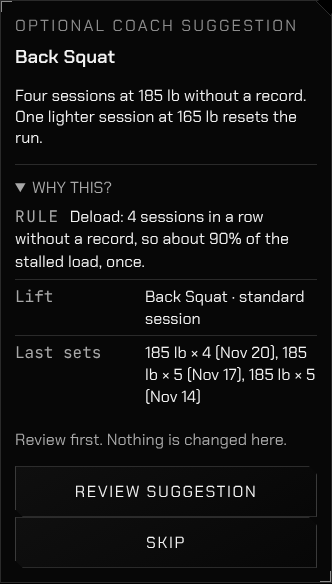
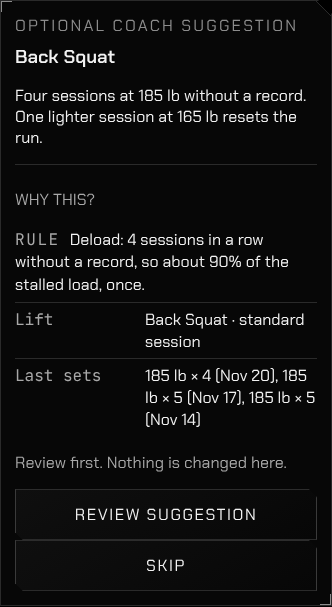
#638 review: true advisory rules, 44 px WHY THIS?, exact branch-rule table; MetricPage002 waits for TODAY (CI)
Claude-Session: https://claude.ai/code/session_01UR9w2nuSV6oWAKV5Wc8D8r

diff --git a/tests/browser/MetricPage002.test.tsx b/tests/browser/MetricPage002.test.tsx
@@ -6,6 +6,7 @@ import "../../src/ui/styles/fonts";
 import { App } from "../../src/app/App";
 import { db } from "../../src/persistence/db";
 import { seedLivedMonth, MONTH_FIRST_DAY, MONTH_NOW } from "./helpers/livedMonth";
+import { todaySettled } from "./helpers/todaySettled";
 import { logProtein } from "../../src/application/commands";
 import { getEffectiveProteinTargetG } from "../../src/application/nutritionTargetQueries";
 import { abandonWorkout, completeWorkout, startWorkout } from "../../src/application/trainCommands";
@@ -33,7 +34,7 @@ describe("METRIC-PAGE-002 slice 1: weight", () => {
   it("TODAY's WEIGHT opens WEIGHT: your weigh-ins, the latest one, BODY's weight trend, dots with honest gaps, and its records one tap away", async () => {
     await seedLivedMonth();
     await page.viewport(360, 800);
-    const screen = await render(<App />);
+    const screen = await render(<App />); await todaySettled(); // #624 rule (CI flake on #638: tapped WEIGHT before TODAY settled)
     await screen.getByRole("button", { name: /^Weight 205\.2 lb/ }).click();
     await expect.element(sheet()).toBeVisible();
     await expect.poll(() => text("[data-md-hero]")).toContain("205.2");
@@ -78,7 +79,7 @@ describe("METRIC-PAGE-002 slice 1: weight", () => {
   it("WEIGHT's LOG WEIGHT opens the existing weight sheet", async () => {
     await seedLivedMonth();
     await page.viewport(360, 800);
-    const screen = await render(<App />);
+    const screen = await render(<App />); await todaySettled(); // #624 rule (CI flake on #638: tapped WEIGHT before TODAY settled)
     await screen.getByRole("button", { name: /^Weight 205\.2 lb/ }).click();
     await sheet().getByRole("button", { name: "LOG WEIGHT", exact: true }).click();
     await expect.poll(() => window.history.state?.recordSheet).toBe("weight");
@@ -87,7 +88,7 @@ describe("METRIC-PAGE-002 slice 1: weight", () => {
   it("BODY's WEIGHT opens the same page, and its records go to BODY's weight history", async () => {
     await seedLivedMonth();
     await page.viewport(360, 800);
-    const screen = await render(<App />);
+    const screen = await render(<App />); await todaySettled(); // #624 rule (CI flake on #638: tapped WEIGHT before TODAY settled)
     await screen.getByRole("navigation").getByRole("button", { name: "DATA", exact: true }).click();
     await screen.getByRole("button", { name: "Open weight", exact: true }).click();
     await expect.element(sheet()).toBeVisible();
@@ -100,7 +101,7 @@ describe("METRIC-PAGE-002 slice 1: weight", () => {
     await seedLivedMonth();
     await db.events.where("type").equals("BODYWEIGHT_LOGGED").delete();
     await page.viewport(360, 800);
-    const screen = await render(<App />);
+    const screen = await render(<App />); await todaySettled(); // #624 rule (CI flake on #638: tapped WEIGHT before TODAY settled)
     await screen.getByRole("button", { name: /^Weight not logged/ }).click();
     await expect.poll(() => text("[data-md-hero]")).toBe("— no weigh-ins recorded yet");
     expect(document.querySelector("dialog[open] .weight-trend")).toBeNull();
@@ -112,7 +113,7 @@ describe("METRIC-PAGE-002 slice 1: weight", () => {
   it("nothing spills, sentences keep 16 px, and WEIGHT passes axe from 320 to 1024 px", async () => {
     await seedLivedMonth();
     await page.viewport(360, 900);
-    const screen = await render(<App />);
+    const screen = await render(<App />); await todaySettled(); // #624 rule (CI flake on #638: tapped WEIGHT before TODAY settled)
     await screen.getByRole("button", { name: /^Weight 205\.2 lb/ }).click();
     await expect.poll(() => text("[data-md-hero]")).not.toBe("");
     for (const r of ["Latest weigh-in", "Last 30 lived days", "Last year, by week"]) {
@@ -155,7 +156,7 @@ describe("METRIC-PAGE-002 slice 2: protein", () => {
     await seedLivedMonth(); await seedPastProtein();
     const target = await getEffectiveProteinTargetG();
     await page.viewport(360, 800);
-    const screen = await render(<App />);
+    const screen = await render(<App />); await todaySettled(); // #624 rule (CI flake on #638: tapped WEIGHT before TODAY settled)
     await screen.getByRole("button", { name: /^Protein 48 .*explore records$/ }).click();
     await expect.element(sheet("PROTEIN")).toBeVisible();
     await expect.poll(() => text("[data-md-hero]")).toBe("48 g so far · since 16:30");
@@ -191,7 +192,7 @@ describe("METRIC-PAGE-002 slice 2: protein", () => {
   it("PROTEIN's LOG PROTEIN opens the existing protein sheet", async () => {
     await seedLivedMonth();
     await page.viewport(360, 800);
-    const screen = await render(<App />);
+    const screen = await render(<App />); await todaySettled(); // #624 rule (CI flake on #638: tapped WEIGHT before TODAY settled)
     await screen.getByRole("button", { name: /^Protein 48 .*explore records$/ }).click();
     await sheet("PROTEIN").getByRole("button", { name: "LOG PROTEIN", exact: true }).click();
     await expect.poll(() => window.history.state?.recordSheet).toBe("protein");
@@ -200,7 +201,7 @@ describe("METRIC-PAGE-002 slice 2: protein", () => {
   it("nothing spills, sentences keep 16 px, and PROTEIN passes axe from 320 to 1024 px", async () => {
     await seedLivedMonth(); await seedPastProtein();
     await page.viewport(360, 900);
-    const screen = await render(<App />);
+    const screen = await render(<App />); await todaySettled(); // #624 rule (CI flake on #638: tapped WEIGHT before TODAY settled)
     await screen.getByRole("button", { name: /^Protein 48 .*explore records$/ }).click();
     await expect.poll(() => text("[data-md-hero]")).not.toBe("");
     for (const r of ["Today, this lived day", "Last 7 lived days", "Last 30 lived days", "Last year, by week"]) {
@@ -242,7 +243,7 @@ async function seedWorkouts() {
   vi.setSystemTime(MONTH_NOW);
 }
 const openWorkouts = async () => {
-  const screen = await render(<App />);
+  const screen = await render(<App />); await todaySettled(); // #624 rule (CI flake on #638: tapped WEIGHT before TODAY settled)
   await screen.getByRole("navigation").getByRole("button", { name: "DATA", exact: true }).click();
   // DATA's progress (where BODY already shows finished workouts over time) opens from DATA's Weight shortcut.
   await screen.getByRole("navigation", { name: "DATA shortcuts", exact: true }).getByRole("button", { name: "Weight", exact: true }).click();

diff --git a/tests/whyTrace.test.ts b/tests/whyTrace.test.ts
@@ -1,6 +1,9 @@
 import { describe, expect, it } from "vitest";
 import { deltaLine, deltaRead, deriveOrientation, type OrientationInput } from "../src/application/orientation";
 import { ADVISORY_RULE } from "../src/ui/screens/today/advisoryCopy";
+import { TRAIN_RULE } from "../src/application/coachCards";
+import { DELOAD_FRACTION, RE_ENTRY_DAYS, RE_ENTRY_FRACTION } from "../src/engine/progression";
+import { STALL_SESSIONS } from "../src/engine/stall";
 import type { AdvisorySourceModule } from "../src/domain/intelligence/types";
 
 /**
@@ -72,5 +75,48 @@ describe("C6.4 · every advisory producer has a rule", () => {
   it("covers every source module", () => {
     const modules: AdvisorySourceModule[] = ["obligationRelevance", "progression", "decisionJournal", "shiftProtection", "continuity", "patternProposal", "dayRolloverAmbiguity"];
     for (const m of modules) expect(ADVISORY_RULE[m], m).toMatch(/\w{4,}/);
+    // #638 review: wording checked against each producer (engine/advisory.ts); pinned so it can't drift silently.
+    expect(ADVISORY_RULE.shiftProtection).toBe("Shift protection: water or protein still short of the Minimum Day amount before a shift.");
+    expect(ADVISORY_RULE.obligationRelevance).toBe("Your commitments: one that is overdue, due today or soon, or planned for today.");
+    expect(ADVISORY_RULE.continuity).toBe("Continuity: last time's recommendation, brought back because it still applies today.");
+  });
+});
+
+describe("C6.4 · each branch names its own rule (#638 review: a mis-paired rule must fail)", () => {
+  type In = Parameters<typeof deltaRead>[0];
+  const KNOWN_UNDER = { state: "KNOWN", minutes: 400, source: "GARMIN", band: { low: 415, high: 470, kind: "WORK" }, under: true } as const;
+  const KNOWN_IN = { ...KNOWN_UNDER, minutes: 450, under: false } as const;
+  const DONE = { state: "DONE", energy: 3, stress: 2, mood: 4 } as const;
+  const engine = (kind: string) => ({ source: "ENGINE" as const, kind: kind as never, title: kind, rationale: "", opensTrain: false });
+  const draft = (kind: string) => ({ source: "DRAFT" as const, kind: kind as never, title: kind, rationale: "", opensTrain: false });
+  const base: In = { sleep: KNOWN_IN, checkIn: { state: "NONE" }, recommendation: null, shortNights: 0, run: null, purpose: "WORK" };
+  const table: [string, Partial<In>, string][] = [
+    ["minimum day", { minimumDay: true }, "Minimum Day is on, so Delta keeps to the essentials."],
+    ["execute, 2 short nights", { checkIn: DONE, recommendation: engine("EXECUTE_PLANNED_WORK"), shortNights: 2 }, "The Engine says do the planned work; two or more short nights in a row, so Delta says so."],
+    ["execute", { checkIn: DONE, recommendation: engine("EXECUTE_PLANNED_WORK") }, "The Engine says do the planned work, after your check-in."],
+    ["no action", { checkIn: DONE, recommendation: engine("NO_ACTION_REQUIRED") }, "The Engine asks for nothing more after your check-in; a short night, if there was one, is still named."],
+    ["stabilize", { checkIn: DONE, recommendation: engine("STABILIZE") }, "The Engine says stabilize after your check-in; a hard day, so plain words."],
+    ["engine recover", { checkIn: DONE, recommendation: engine("RECOVER") }, "The Engine’s recover recommendation, after your check-in."],
+    ["engine post-shift", { checkIn: DONE, recommendation: engine("POST_SHIFT_TRANSITION") }, "The Engine’s post-shift recommendation, after your check-in."],
+    ["engine obligation", { checkIn: DONE, recommendation: engine("OBLIGATION_DUE") }, "The Engine’s obligation-due recommendation, after your check-in."],
+    ["sleep error", { sleep: { state: "ERROR" } }, "Sleep couldn’t be read, so Delta says nothing about rest."],
+    ["no sleep", { sleep: { state: "NONE" } }, "No main sleep is recorded, so Delta doesn’t read your rest."],
+    ["draft recover", { recommendation: draft("RECOVER") }, "A recover draft from your recent nights, before your check-in; the Engine decides after it."],
+    ["draft post-shift", { recommendation: draft("POST_SHIFT_TRANSITION") }, "A post-shift draft, before your check-in; the Engine decides after it."],
+    ["recovery day", { purpose: "RECOVERY" }, "The first day after a run of shifts: a recovery day."],
+    ["day off", { purpose: "OFF" }, "A day off: Delta names what is due."],
+    ["flip day", { purpose: "FLIP" }, "A flip day between nights and days."],
+    ["range not learned", { sleep: { ...KNOWN_IN, band: null } }, "Your usual sleep range isn’t learned yet, so there’s no comparison."],
+    ["under range", { sleep: KNOWN_UNDER }, "Last sleep was under your usual range for this kind of day."],
+    ["in range", {}, "Last sleep was within your usual range for this kind of day."],
+  ];
+  for (const [name, over, rule] of table) it(name, () => expect(deltaRead({ ...base, ...over })!.rule).toBe(rule));
+});
+
+describe("C6.4 · coach-card TRAIN rules are the engine's own numbers", () => {
+  it("re-entry, deload and reduce", () => {
+    expect(TRAIN_RULE.RE_ENTRY).toBe(`Re-entry: ${RE_ENTRY_DAYS} or more days since this lift, so about ${Math.round(RE_ENTRY_FRACTION * 100)}% of the last load.`);
+    expect(TRAIN_RULE.DELOAD).toBe(`Deload: ${STALL_SESSIONS} sessions in a row without a record, so about ${Math.round(DELOAD_FRACTION * 100)}% of the stalled load, once.`);
+    expect(TRAIN_RULE.REDUCE).toMatch(/every required set came in under the rep range/);
   });
 });

diff --git a/src/application/coachCards.ts b/src/application/coachCards.ts
@@ -18,7 +18,7 @@ export type CoachDestination = "TRAIN" | "JOURNAL" | "WEEKLY" | "DELTA";
 export interface CoachCard { id: string; key: string; title: string; evidence: string; destination: CoachDestination; why: WhyTrace }
 const pct = (x: number) => `${Math.round(x * 100)}%`;
 const shortDate = (iso: string | Date) => new Date(iso).toLocaleDateString("en-US", { month: "short", day: "numeric" });
-const TRAIN_RULE: Record<string, string> = {
+export const TRAIN_RULE: Record<string, string> = {
   REDUCE: "Progression (locked): every required set came in under the rep range, so the next increment down.",
   RE_ENTRY: `Re-entry: ${RE_ENTRY_DAYS} or more days since this lift, so about ${pct(RE_ENTRY_FRACTION)} of the last load.`,
   DELOAD: `Deload: ${STALL_SESSIONS} sessions in a row without a record, so about ${pct(DELOAD_FRACTION)} of the stalled load, once.`,
@@ -52,13 +52,13 @@ export async function getCoachCards(now = new Date(), suggestedVariant: "STANDAR
   const experiments = await getExperiments();
   for (const experiment of experiments.filter((e) => e.entry.status === "OPEN" && now >= e.to).sort((a, b) => a.to.getTime() - b.to.getTime() || a.entry.id.localeCompare(b.entry.id))) {
     cards.push({ id: `JOURNAL:${experiment.entry.id}`, key: key("JOURNAL", experiment.entry), title: `Review your test: ${experiment.what}`, evidence: `Your ${experiment.days}-day test ended ${experiment.to.toLocaleDateString()}. Review the recorded results and choose your verdict in Journal.`, destination: "JOURNAL",
-      why: { rule: "A test you started has reached its end date; only you give the verdict.", facts: [{ label: "Test", value: experiment.what }, { label: "Ran", value: `${shortDate(experiment.from)} – ${shortDate(experiment.to)} (${experiment.days} days)` }] } });
+      why: { rule: "A test you started has reached its end date; only you give the verdict.", facts: [{ label: "Test", value: experiment.what }, { label: "Ran", value: `${shortDate(experiment.from)} – ${shortDate(new Date(experiment.to.getTime() - 86_400_000))} (${experiment.days} days)` }] } });
   }
   const weekly = await getWeeklySummary(now);
   if (weekly.calorieProposal.kind === "PROPOSAL") {
     const p = weekly.calorieProposal;
     cards.push({ id: "WEEKLY:calories", key: key("WEEKLY", p), title: `Review ${p.kcal} kcal a day`, evidence: `Your existing weekly proposal uses a burn estimate of ${p.maintenance.lowKcal}–${p.maintenance.highKcal} kcal and your goal of ${p.goalWeightLbs} lb. Review its evidence and limits before saving.`, destination: "WEEKLY",
-      why: { rule: "Weekly calorie proposal: your burn estimate and your goal weight, saved only if you choose.", facts: [{ label: "Proposal", value: `${p.kcal} kcal a day` }, { label: "Burn estimate", value: `${p.maintenance.lowKcal}–${p.maintenance.highKcal} kcal` }, { label: "Goal", value: `${p.goalWeightLbs} lb` }] } });
+      why: { rule: "Weekly calorie proposal: your burn estimate and your goal weight, saved only if you choose.", facts: [{ label: "Proposal", value: `${p.kcal} kcal a day` }, ...(p.kcal !== p.aimKcal ? [{ label: "Aim", value: `${p.aimKcal} kcal a day; this week's step is capped` }] : []), { label: "Burn estimate", value: `${p.maintenance.lowKcal}–${p.maintenance.highKcal} kcal` }, ...(p.weight ? [{ label: "Weight", value: `${p.weight.lbs} lb (${p.weight.basis === "WEEK_AVERAGE" ? "week average" : "latest"})` }] : []), { label: "Goal", value: `${p.goalWeightLbs} lb` }] } });
   }
   const delta = await getDeltaKnowledge(now);
   if (delta.suggestion) {

diff --git a/src/application/orientation.ts b/src/application/orientation.ts
@@ -192,7 +192,7 @@ export function deltaRead(input: {
   if (checkIn.state === "DONE" && rec?.source === "ENGINE") {
     if (rec.kind === "EXECUTE_PLANNED_WORK") return out(v(input.shortNights >= 2 ? "EXEC_SHORT" : "EXEC_OK"), input.shortNights >= 2 ? "The Engine says do the planned work; two or more short nights in a row, so Delta says so." : "The Engine says do the planned work, after your check-in.");
     // A fact, not advice: a short night stays visible even when the Engine asks for nothing more.
-    if (rec.kind === "NO_ACTION_REQUIRED") return out(v("NO_ACTION", { where: work ? "before the shift" : "today" }) + short, "The Engine asks for nothing more after your check-in; a short night is still named.");
+    if (rec.kind === "NO_ACTION_REQUIRED") return out(v("NO_ACTION", { where: work ? "before the shift" : "today" }) + short, "The Engine asks for nothing more after your check-in; a short night, if there was one, is still named.");
     // Kept short: on a sustained drop, that sentence replaces the sleep fact (YOU still shows the sleep).
     if (rec.kind === "STABILIZE") return out(say("PLAIN", "STABILIZE") + (sustained || shortIn("PLAIN")), "The Engine says stabilize after your check-in; a hard day, so plain words.");
     const key: DeltaLineKey | null = rec.kind === "RECOVER" ? "ENGINE_RECOVER" : rec.kind === "POST_SHIFT_TRANSITION" ? "ENGINE_POST_SHIFT"
@@ -206,7 +206,7 @@ export function deltaRead(input: {
   if (rec?.source === "DRAFT" && rec.kind === "POST_SHIFT_TRANSITION") return out(v("DRAFT_POST_SHIFT") + askCheckIn, "A post-shift draft, before your check-in; the Engine decides after it.");
   const due = input.dueCount ?? 0;
   if (purpose === "RECOVERY") return out(v("RECOVERY") + short + askCheckIn, "The first day after a run of shifts: a recovery day.");
-  if (purpose === "OFF") return out(v(due === 0 ? "OFF_NONE" : due === 1 ? "OFF_ONE" : "OFF_MANY", { n: due }) + short + askCheckIn, "A day off: Delta names what is due, and nothing else.");
+  if (purpose === "OFF") return out(v(due === 0 ? "OFF_NONE" : due === 1 ? "OFF_ONE" : "OFF_MANY", { n: due }) + short + askCheckIn, "A day off: Delta names what is due.");
   if (purpose === "FLIP") return out(v("FLIP") + short + askCheckIn, "A flip day between nights and days.");
   if (!sleep.band) return out(v("SLEEP_LEARNING", { hm: hm(sleep.minutes) }) + askCheckIn, "Your usual sleep range isn\u2019t learned yet, so there\u2019s no comparison.");
   if (sleep.under) return out(v("SLEEP_UNDER", { kind: sleep.band.kind }) + askCheckIn, "Last sleep was under your usual range for this kind of day.");

diff --git a/src/ui/screens/today/advisoryCopy.ts b/src/ui/screens/today/advisoryCopy.ts
@@ -17,11 +17,11 @@ export const MAX_ADVISORY_ROWS = 3;
 
 /** GRAYSON C6.4: which rule produced an advisory note, in plain words (its WHY THIS? rule line). */
 export const ADVISORY_RULE: Record<AdvisoryNote["sourceModule"], string> = {
-  obligationRelevance: "Your commitments: something set aside before that still fits today.",
-  progression: "Progression (locked): advisory only; your load never changes unless you change it.",
+  obligationRelevance: "Your commitments: one that is overdue, due today or soon, or planned for today.",
+  progression: "Progression: advisory only (including re-entry and deload); your load never changes unless you change it.",
   decisionJournal: "A reviewed Decision Journal entry that matches today.",
-  shiftProtection: "Shift protection: water or protein not yet logged before a shift.",
-  continuity: "Continuity: your recent outcomes, read back as they were recorded.",
+  shiftProtection: "Shift protection: water or protein still short of the Minimum Day amount before a shift.",
+  continuity: "Continuity: last time's recommendation, brought back because it still applies today.",
   patternProposal: "A pattern in your own records, offered as a proposal only.",
   dayRolloverAmbiguity: "Day rollover: a sleep logged on a day that started on its own at 16:30.",
 };

diff --git a/tests/browser/AdvisorySection.test.tsx b/tests/browser/AdvisorySection.test.tsx
@@ -34,7 +34,7 @@ describe("AdvisorySection (real browser) — PROTECT quick actions", () => {
     await screen.getByText("WHY", { exact: true }).click();
     await expect.element(screen.getByText(protectNote.message)).toBeVisible();
     // GRAYSON C6.4: the same rule line as every other Delta surface.
-    await expect.element(screen.getByText("Shift protection: water or protein not yet logged before a shift.")).toBeVisible();
+    await expect.element(screen.getByText("Shift protection: water or protein still short of the Minimum Day amount before a shift.")).toBeVisible();
   });
 
   it("renders one +OZ quick-add button per WATER_QUICK_ADD_OZ amount for an unmet HYDRATE item, and tapping one calls onLogWater with that exact amount", async () => {

diff --git a/tests/browser/Orientation.test.tsx b/tests/browser/Orientation.test.tsx
@@ -89,6 +89,7 @@ describe("Orientation states", () => {
     const delta = screen.getByRole("article", { name: "DELTA" });
     const why = delta.getByText("WHY THIS?", { exact: true });
     await expect.element(why).toBeVisible();
+    expect(delta.element().querySelector("details > summary")!.getBoundingClientRect().height).toBeGreaterThanOrEqual(44); // #638 review
     expect(delta.element().querySelector("details")!.open).toBe(false);
     await why.click();
     await expect.element(delta.getByText("A recover draft from your recent nights, before your check-in; the Engine decides after it.")).toBeVisible();

diff --git a/src/ui/components/WhyDisclosure.tsx b/src/ui/components/WhyDisclosure.tsx
@@ -14,14 +14,17 @@ import type { CSSProperties, ReactNode } from "react";
 export function WhyDisclosure({
   summary,
   style,
+  className,
   children,
 }: {
   summary: string;
   style?: CSSProperties;
+  /** GRAYSON C6.4: an extra class, e.g. the WHY THIS? trace's 44 px summary. */
+  className?: string;
   children: ReactNode;
 }) {
   return (
-    <details className="why" style={style}>
+    <details className={className ? `why ${className}` : "why"} style={style}>
       <summary>{summary}</summary>
       {children}
     </details>

diff --git a/src/ui/components/whyTrace.css b/src/ui/components/whyTrace.css
@@ -8,3 +8,5 @@
 .why-trace__fact dd { margin: 0; font-size: 16px; line-height: 1.35; color: var(--p-t1, var(--text-1)); overflow-wrap: anywhere; }
 .why-trace__records { justify-self: start; min-height: 44px; }
 @container (max-width: 300px) { .why-trace__fact { grid-template-columns: 1fr; } }
+/* #638 review: WHY THIS? is a 44 px target, like TODAY's other disclosures. */
+.why--trace > summary { min-height: 44px; display: flex; align-items: center; }

diff --git a/src/ui/components/WhyTrace.tsx b/src/ui/components/WhyTrace.tsx
@@ -9,7 +9,7 @@ import "./whyTrace.css";
  */
 export function WhyTraceDisclosure({ why, records }: { why: WhyTrace; records?: { label: string; onOpen: () => void } | undefined }) {
   return (
-    <WhyDisclosure summary="WHY THIS?">
+    <WhyDisclosure summary="WHY THIS?" className="why--trace">
       <WhyTraceBody why={why} records={records} />
     </WhyDisclosure>
   );
